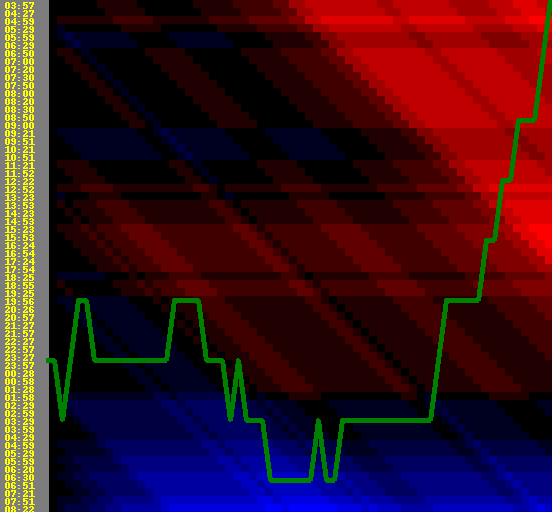
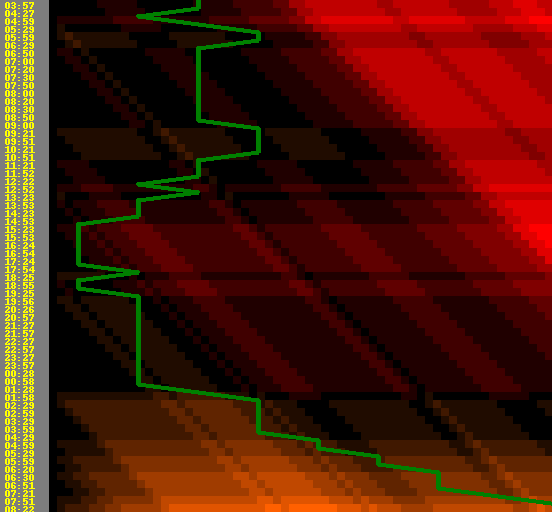
Changed color scheme for red for neg, orange for pos, rotated graphs to hopefully make the relationship clearer

diff --git a/barometers.py b/barometers.py
@@ -17,12 +17,10 @@ my_colors = { -16:(255, 255, 255),-15:(255, 224, 224),-14:(255, 192, 192),
     -13:(255, 160, 160),-12:(255, 128, 128),-11:(255, 96, 96),  
     -10:(255, 64, 64),-9:(255, 32, 32),-8:(255, 0, 0),-7:(224, 0, 0), 
     -6:(192, 0, 0),-5:(160, 0, 0),-4:(128, 0, 0),-3:(96, 0, 0), 
-    -2:(64, 0, 0),-1:(32, 0, 0),0 : (0, 0, 0), 16:(255, 255, 255), 
-    15:(224, 224, 255),14:(192, 192, 255),13:(160, 160, 255),
-    12:(128, 128, 255),11:(96, 96, 255),10:(64, 64, 255),
-    9:(32, 32, 255),8:(0, 0, 255),7:(0, 0, 224),6:(0, 0, 192),
-    5:(0, 0, 160),4:(0, 0, 128),3:(0, 0, 96),2:(0, 0, 64),
-    1:(0, 0, 32),0:(0, 0, 0)}
+    -2:(64, 0, 0),-1:(32, 0, 0),0 : (0, 0, 0),15:(255,236,224),14:(255,216,192),
+    13:(255,196,160),12:(255,176,128),11:(255,156,96),10:(255,136,64),
+    9:(255,116,32),8:(255,96,0),7:(224,84,0),6:(192,72,0),5:(160,60,0),
+    4:(128,48,0),3:(96,36,0),2:(64,24,0),1:(32,12,0)}
 
 
 
@@ -114,7 +112,7 @@ def data_for_my_graph(num_output=64):
     
     range = max(my_points) - min(my_points)
     my_max=max(my_points)
-    
+    my_min=min(my_points)
     print("{0} - {1} {2}".format(range,max(my_points),min(my_points)))
     # if range > 64 we will need to do something
     # if num_output > 64 we will need to do something
@@ -122,9 +120,10 @@ def data_for_my_graph(num_output=64):
     my_plot = []
     count = 0
     while count < len(my_points):
-        point=(my_max - my_points[count]) * 60
-        my_plot.append(tuple([(count*8)+46,point]))
+        point=512-((my_max - my_points[count]) * 60)
+        my_plot.append(tuple([point+46,(count*8)]))
         count += 1
+    print("{0}".format(my_plot))
     return my_plot
 
 def match_cache(weather_location):
